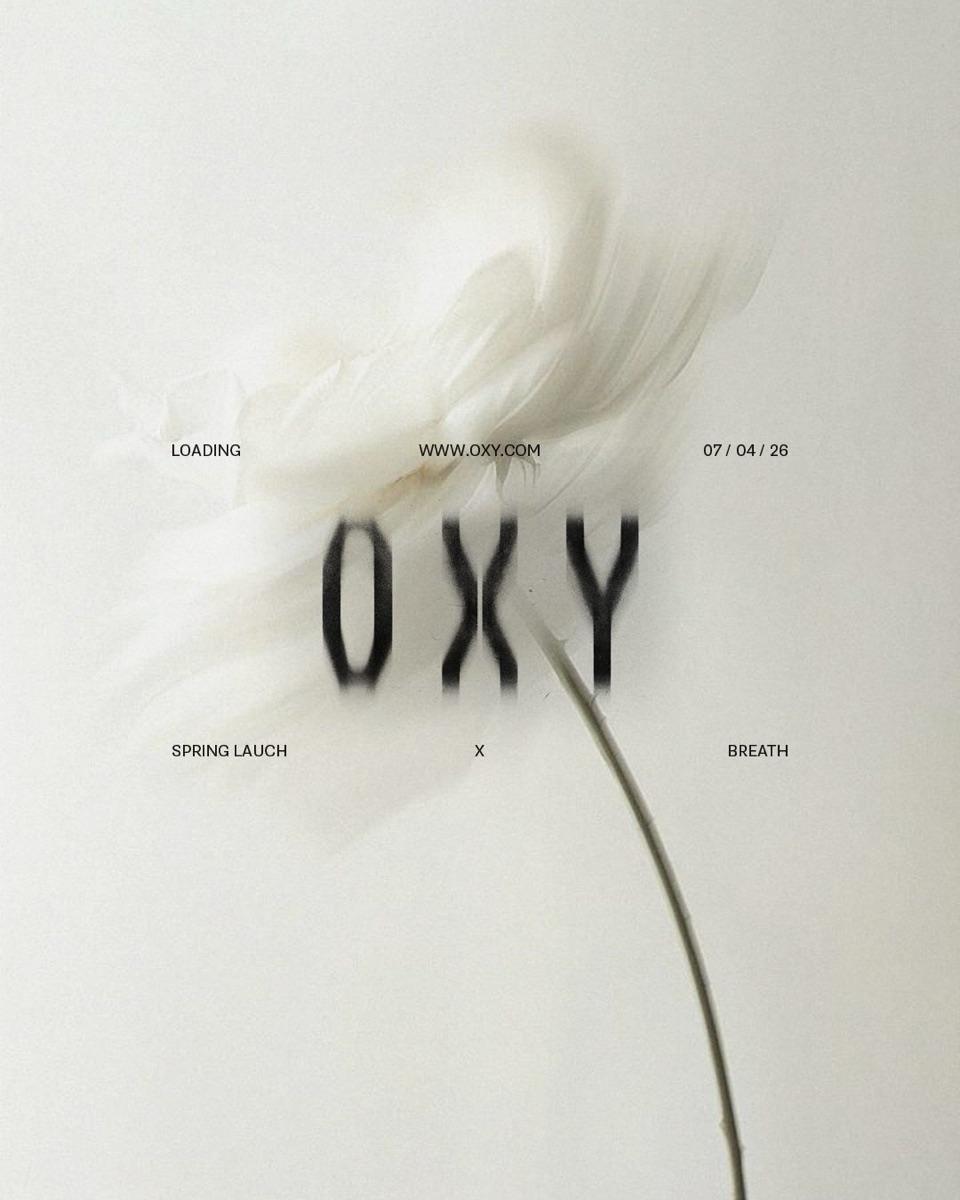
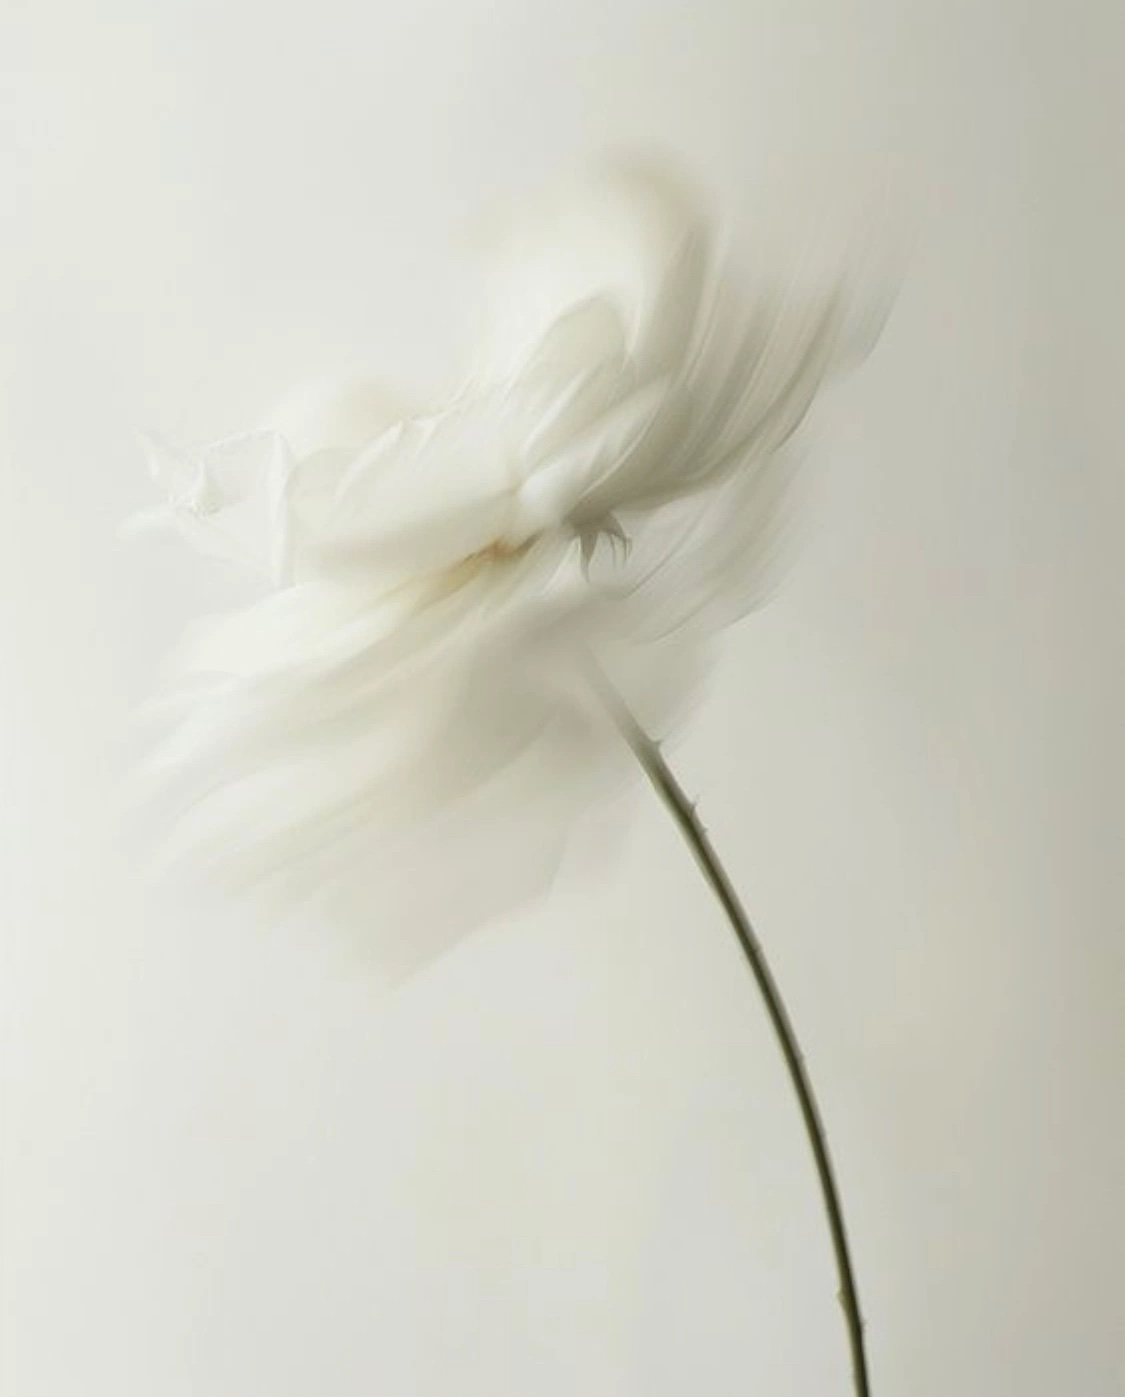
Oxy: new preview image (white flower), same landscape frame

diff --git a/js/data.js b/js/data.js
@@ -550,10 +550,10 @@ const PROJECTS = [
     },
     "thumb": {
       "src": "assets/oxy/thumb.jpg",
-      "w": 960,
-      "h": 1200,
+      "w": 1125,
+      "h": 1397,
       "shape": "L",
-      "focus": "50% 50%",
+      "focus": "45% 33%",
       "inIntro": false
     },
     "subtitle": "The breath of the earth",
